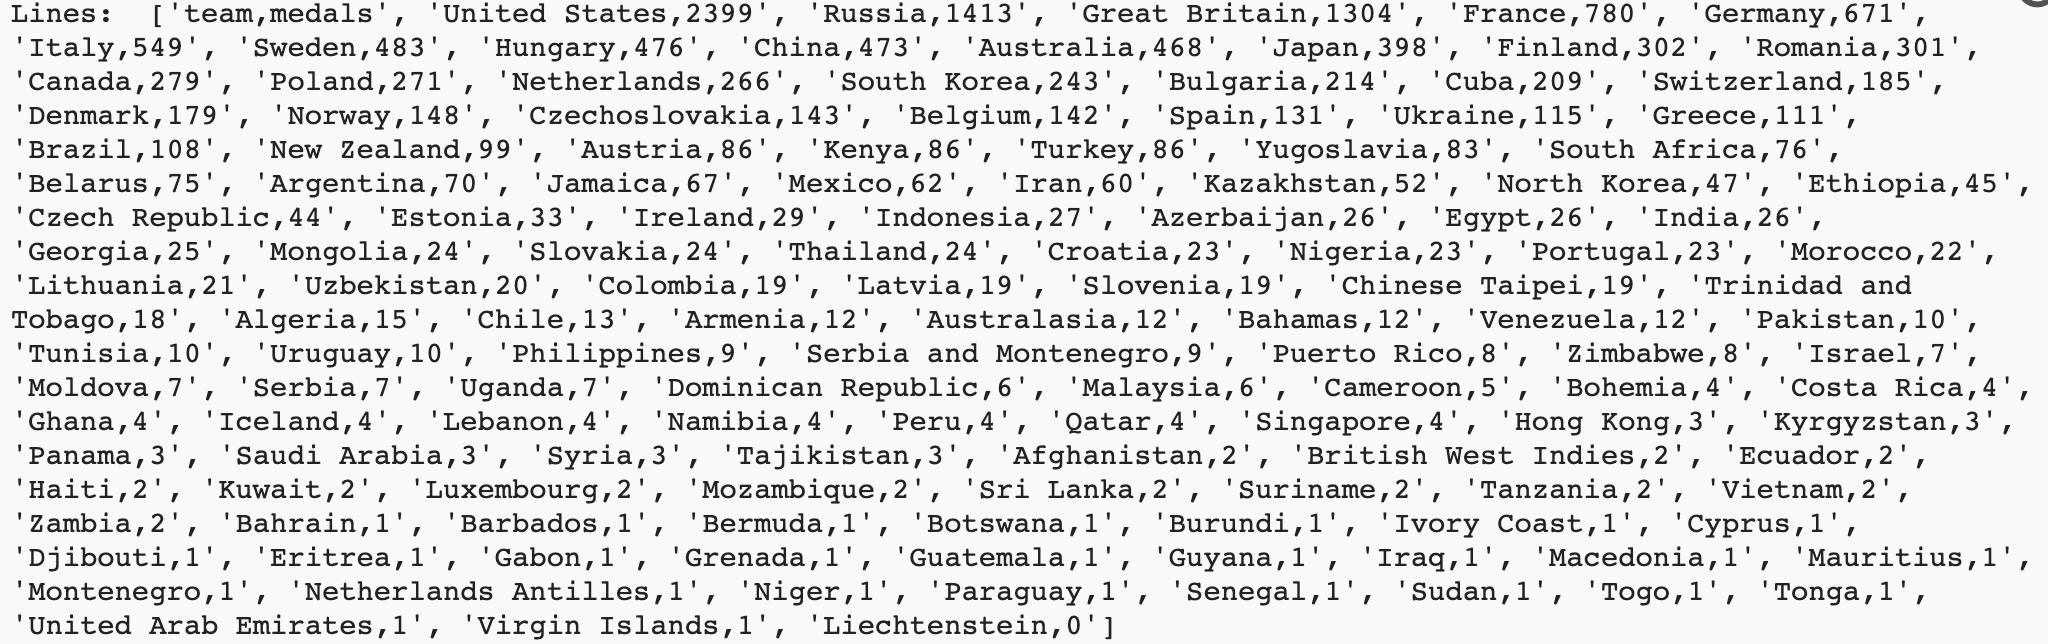
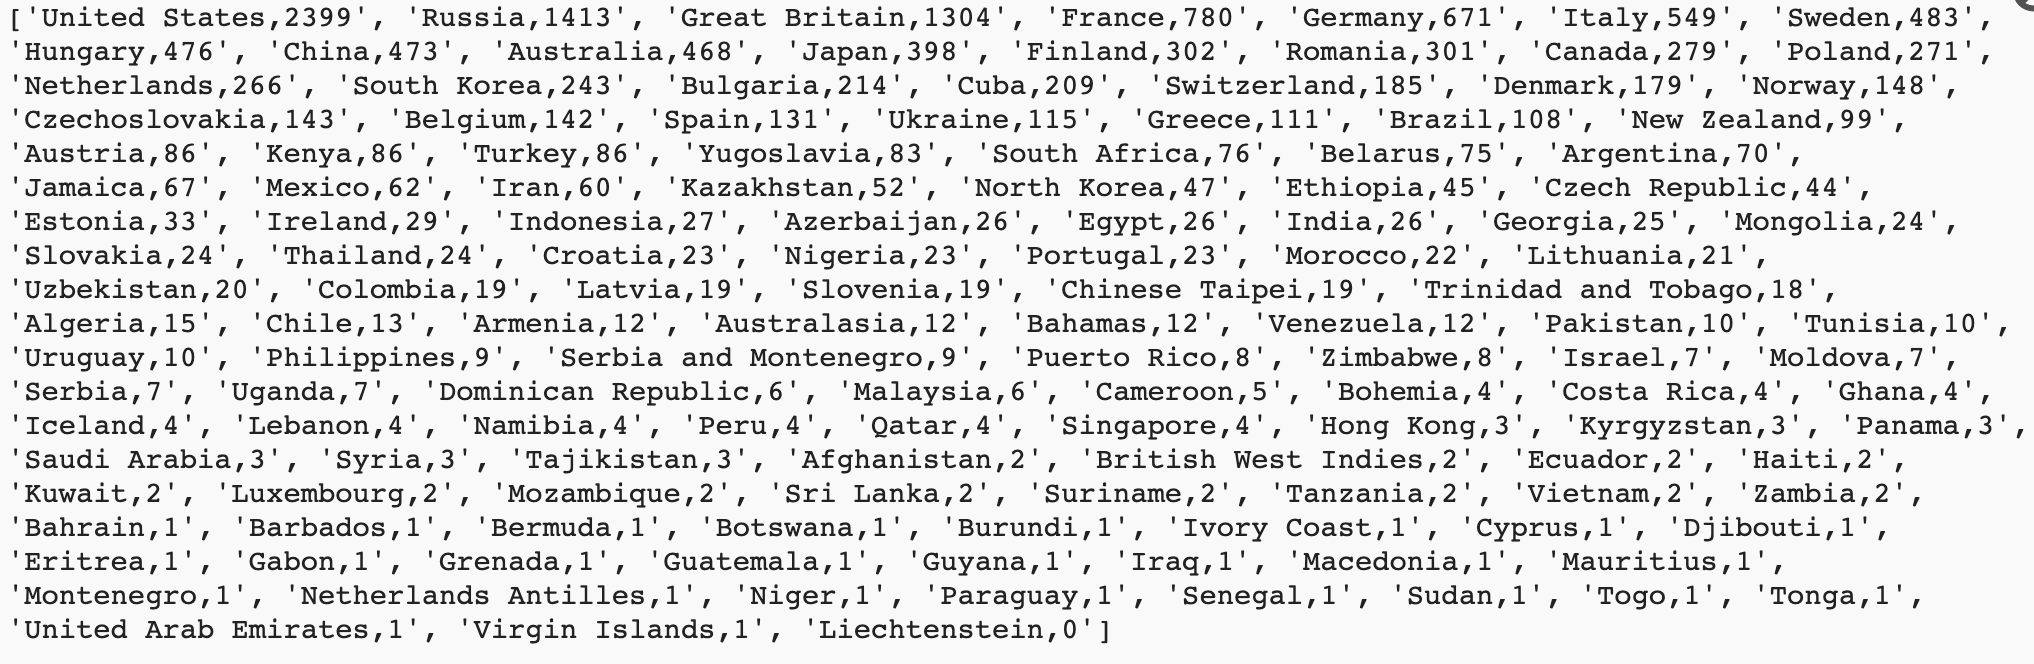
Feedback updates

Changed region(s): [[0.0, 0.0, 0.9912, 0.9938], [0.9912, 0.0, 1.0, 0.0311]]

diff --git a/en/step_3.md b/en/step_3.md
@@ -2,7 +2,7 @@
 
 <div style="display: flex; flex-wrap: wrap">
 <div style="flex-basis: 200px; flex-grow: 1; margin-right: 15px;">
-The chart looks good! But, almost 150 nations have competed in the Olympics. To include them, you're going to load their data from a file. It will save a lot of typing!
+The chart looks good! But, almost 150 nations have competed in the Olympics. To chart them, you're going to load their data from a file. It will save a lot of typing!
 </div>
 <div>
 ![A bar chart showing the medal counts of many nations. Information appears when the mouse hovers over a bar. Bars disappear as the names of nations are clicked.](images/adjust_chart.gif){:width="300px"}
@@ -11,13 +11,15 @@ The chart looks good! But, almost 150 nations have competed in the Olympics. To 
 
 --- task ---
 
-Delete your lists and `chart.add()` lines from the previous step. That data is in the file you will be loading.
+Open the [second starter project](https://trinket.io/python/b8e0125fe2){:target="_blank"}. Trinket will open in another browser tab.
+
+If you have a Trinket account, you can click on the **Remix button** to save a copy to your `My Trinkets` library.
 
 --- /task ---
 
 --- task ---
 
-The `data.csv` file included in the starter project contains the data you need. You can load the file into a variable by using `with open() as` and `read()`.
+The `data.csv` file included in this starter project contains the data you need. You can load the file into a variable by using `with open() as` and `read()`.
 
 [[[generic-python-file-read]]]
 
@@ -36,9 +38,16 @@ with open('data.csv') as f:
 
 --- /task ---
 
-<p style="border-left: solid; border-width:10px; border-color: #0faeb0; background-color: aliceblue; padding: 10px;">
+<div style="border-left: solid; border-width:10px; border-color: #0faeb0; background-color: aliceblue; padding: 10px;">
 <span style="color: #0faeb0">**CSV files**</span> are **c**omma-**s**eparated **v**alues files. They contain data in rows and columns, like a table. Each line is a row, with commas separating that row's values into columns.
-</p>
+```
+United States,2399
+Russia,1413
+Great Britain,1304
+France,780
+Germany,671
+```
+</div>
 
 --- task ---
 
@@ -57,7 +66,7 @@ line_highlights: 11-12
 with open('data.csv') as f:
   data = f.read()
   lines = data.splitlines()
-  print('Lines: ', lines)
+  print(lines)
 --- /code ---
 
 --- /task ---
@@ -70,11 +79,33 @@ Notice that the list has the same square brackets (`[]`) you used to make a list
 
 ![A long list of text strings, printed out.](images/lines.png){:width="400px"}
 
-**Debug:** If the code doesn't work, make sure you have indented it under `with`, like in the example above.
+**Debug:** If the code doesn't work, make sure you have indented it under `with`, as in the example above.
 
 **Debug:** If you see a message about `read` or `splitlines` being 'not defined':
  - check that you have included `f.` before `read()` 
- - check that you have included `data` before `splitlines()`
+ - check that you have included `data.` before `splitlines()`
+
+--- /task ---
+
+It's useful to print `lines` out to check your program is working properly. But you don't need to do it every time the program runs.
+
+--- task ---
+
+Put a `#` in front of the code that prints `lines`. This will turn that code into a comment, so Python will ignore it.
+
+--- code ---
+---
+language: python
+filename: main.py
+line_numbers: true
+line_number_start: 9 
+line_highlights: 12
+---
+with open('data.csv') as f:
+  data = f.read()
+  lines = data.splitlines()
+  #print(lines)
+--- /code ---
 
 --- /task ---
 
@@ -95,11 +126,11 @@ line_highlights: 14-16
 with open('data.csv') as f:
   data = f.read()
   lines = data.splitlines()
-  print('Lines: ', lines)
+  #print(lines)
 
 for line in lines:
-  entries = line.split(',')
-  print('Entries: ', entries) # Print each entry
+  tally = line.split(',')
+  print(tally) # Print each list
 --- /code ---
 
 **Tip:** `split()` can split a string into a list around any text you want. You can split on punctuation, a letter, or even whole words.
@@ -110,13 +141,17 @@ for line in lines:
 
 **Test:** Run your code and look at the text it prints out. Each line should be a list with two items.
 
-![Many lists, each with two items, printed out.](images/entries.png){:width="400px"}
+![Many lists, each with two items, printed out.](images/tally.png){:width="400px"}
 
-**Debug:** If your `entries` are printing out as lists with only one item then check that you have `','` in the `()` of `line.split()`.
+**Debug:** If your `tally` is printing out as lists with only one item then check that you have `','` in the `()` of `line.split()`.
 
 **Debug:** If you see a message about `split` being 'not defined', check that you have included `line.` before it.
 
 --- /task ---
+
+Now that you know you are getting the lists you want, you don't to keep printing `tally`.
+
+--- task ---
 
 --- task ---
 
@@ -131,73 +166,10 @@ line_number_start: 14
 line_highlights: 17-19
 ---
 for line in lines:
-  entries = line.split(',')
-  print('Entries: ', entries)
-  team = entries[0]
-  medals = entries[1]
-  chart.add(team, int(medals))  # Make medals a number
---- /code ---
-
-**Tip:** You can put a `#` in front of the code that prints `lines` and `entries` when you're not using them to debug your program. This will turn that code into comments, so Python will ignore it.
-
---- /task ---
-
---- task ---
-
-**Test:** Run your code and see what happens.
-
-You should get an error like this:
-
-```
-ValueError: invalid literal for int() with base 10: 'medals' on line 19 in main.py
-```
-
-This message means Python can't convert 'medals' into a number with `int()`. This is because the first line of `data.csv` is different to all the others. Instead of a team and the number of medals they have won, the first line is the headings: 'team' and 'medals'.
-
-**Debug:** There are some other bugs you might find here:
-
---- collapse ---
----
-title: I don't get an error, but my chart is empty
----
-
-If you get an empty chart instead of this error, check that you have `int(medals)` in your `chart.add()`.
-
---- /collapse ---
-
---- collapse ---
----
-title: I get a message about an 'IndexError'
----
-If you see a message about an `IndexError`, your code is trying to get a value from a list index (e.g. `us[2]`) that doesn't exist. To fix this:
- - Check each of your `team` and `medals` variables to be sure you are only using `0` and `1` as indexes
- - Check the printed `entries` lists to be sure they have two items. `Entries:  ['Tonga', '1']`, not `Entries:  ['Tonga,1']`. If they don't, then check that you have `','` in the `()` of `line.split()`.
-
---- /collapse ---
-
---- /task ---
-
-To fix the bug, you need to skip the first line of `data.csv` — the string at index `0` in `lines`. 
-
---- task ---
-
-Lists can be **sliced** to skip items at the start. To slice a list use `my_list[start:]` — where `start` is the index of the item you want to start from.
-
-Slice `lines` when you use it in the `for` loop to skip the first line.
-
---- code ---
----
-language: python
-filename: main.py
-line_numbers: true
-line_number_start: 14 
-line_highlights: 14
----
-for line in lines[1:]: # Start from index 1
-  entries = line.split(',')
-  print('Entries: ', entries)
-  team = entries[0]
-  medals = entries[1]
+  tally = line.split(',')
+  print(tally)
+  team = tally[0]
+  medals = tally[1]
   chart.add(team, int(medals))  # Make medals a number
 --- /code ---
 
@@ -208,6 +180,12 @@ for line in lines[1:]: # Start from index 1
 **Test:** Run your code and look at the chart it creates. Try hovering over some of the bars, or clicking on the names of teams to add and remove them from the chart.
 
 ![A bar chart showing the medal counts of many nations. Information appears when the mouse hovers over a bar. Bars disappear as the names of nations are clicked.](images/adjust_chart.gif){:width="400px"}
+
+**Debug:** If your chart is empty, check that you have `int(medals)` in your `chart.add()`.
+
+**Debug:** If you see a message about an `IndexError`, your code is trying to get a value from a list index (e.g. `tally[2]`) that doesn't exist. To fix this:
+ - Check each of your `team` and `medals` variables to be sure you are only using `0` and `1` as indexes
+ - Check the printed `tally` lists to be sure they have two items: `['Tonga', '1']`, not `['Tonga,1']`. If they don't, then check that you have `','` in the `()` of `line.split()`.
 
 --- /task ---
 

diff --git a/en/step_5.md b/en/step_5.md
@@ -30,7 +30,20 @@ Try showing only the first ten items on your chart, so it's easier to see and co
 
 --- task ---
 
-To display fewer items on the chart, you can slice the `lines` list from the end as well as from the start. You used `lines[1:]` to start from the string at position `1`. If you use `lines[:5]`, Python will skip every item with an index of `5` or higher. 
+To display fewer items on the chart, only `add()` a certain number of items from the `lines` list. 
+
+You can use `range()` to make a list of numbers, then you can use those numbers as list indexes. For example, you could print the first five items on a list with this code:
+
+--- code ---
+---
+language: python
+filename: main.py
+---
+
+for i in range(5):
+  print(my_list[i])
+
+--- /code ---
 
 --- /task ---
 
@@ -42,7 +55,7 @@ You can load and chart any data that's in a `.csv` file with the program you've 
 **Choose:** Pick a different datafile in your project. There are two available:
 
  - `mcu.csv` is the runtime and gross income from Marvel Cinematic Universe films
- - `carbon.csv` is the total and per-person carbon dioxide emissions of different countries and regions
+ - `carbon.csv` is the total (thousands of tons) and per-person (tons) carbon dioxide emissions of different countries and regions
 
 --- /task ---
 
@@ -50,7 +63,7 @@ You can load and chart any data that's in a `.csv` file with the program you've 
 
 Update the code that reads from `data.csv` to read from your new file. 
 
-These files have more than one column of numbers. Use indexes on the `entries` list to choose which to add to your chart. 
+These files have more than one column of numbers. Use indexes on the `tally` list to choose which to add to your chart. 
 
 The carbon dioxide data uses numbers with decimals. To convert them from text strings, you'll need to use `float()` instead of `int()`.
 

diff --git a/en/step_2.md b/en/step_2.md
@@ -78,11 +78,9 @@ chart.title = 'Olympic medals'
 
 --- /task ---
 
-`title` is an **attribute** of your `chart`. Attributes are variables connected to an object. You can use attributes with `.`. For example, `chart.title`.
-
 --- task ---
 
-`chart` also has functions connected with it. Call `chart.render()` to display the chart.
+Call `chart.render()` to display the chart.
 
 --- code ---
 ---
@@ -117,7 +115,7 @@ Python can store related data as a **list**. You can create lists using square b
 
 --- task ---
 
-Create three lists of data to display on your chart.
+Create three lists of data to show on your chart.
 
 --- code ---
 ---
@@ -136,7 +134,7 @@ gb = ['Great Britain', 1304]
 
 --- /task ---
 
-When you store something it gets an **index**: a number that tells you the item's position in the list. List indexes start from `0`, instead of `1`.
+When you store something in a list it gets an **index**. An index is a number that tells you an item's position in a list. List indexes start from `0`, instead of `1`.
 
 --- task ---
 
